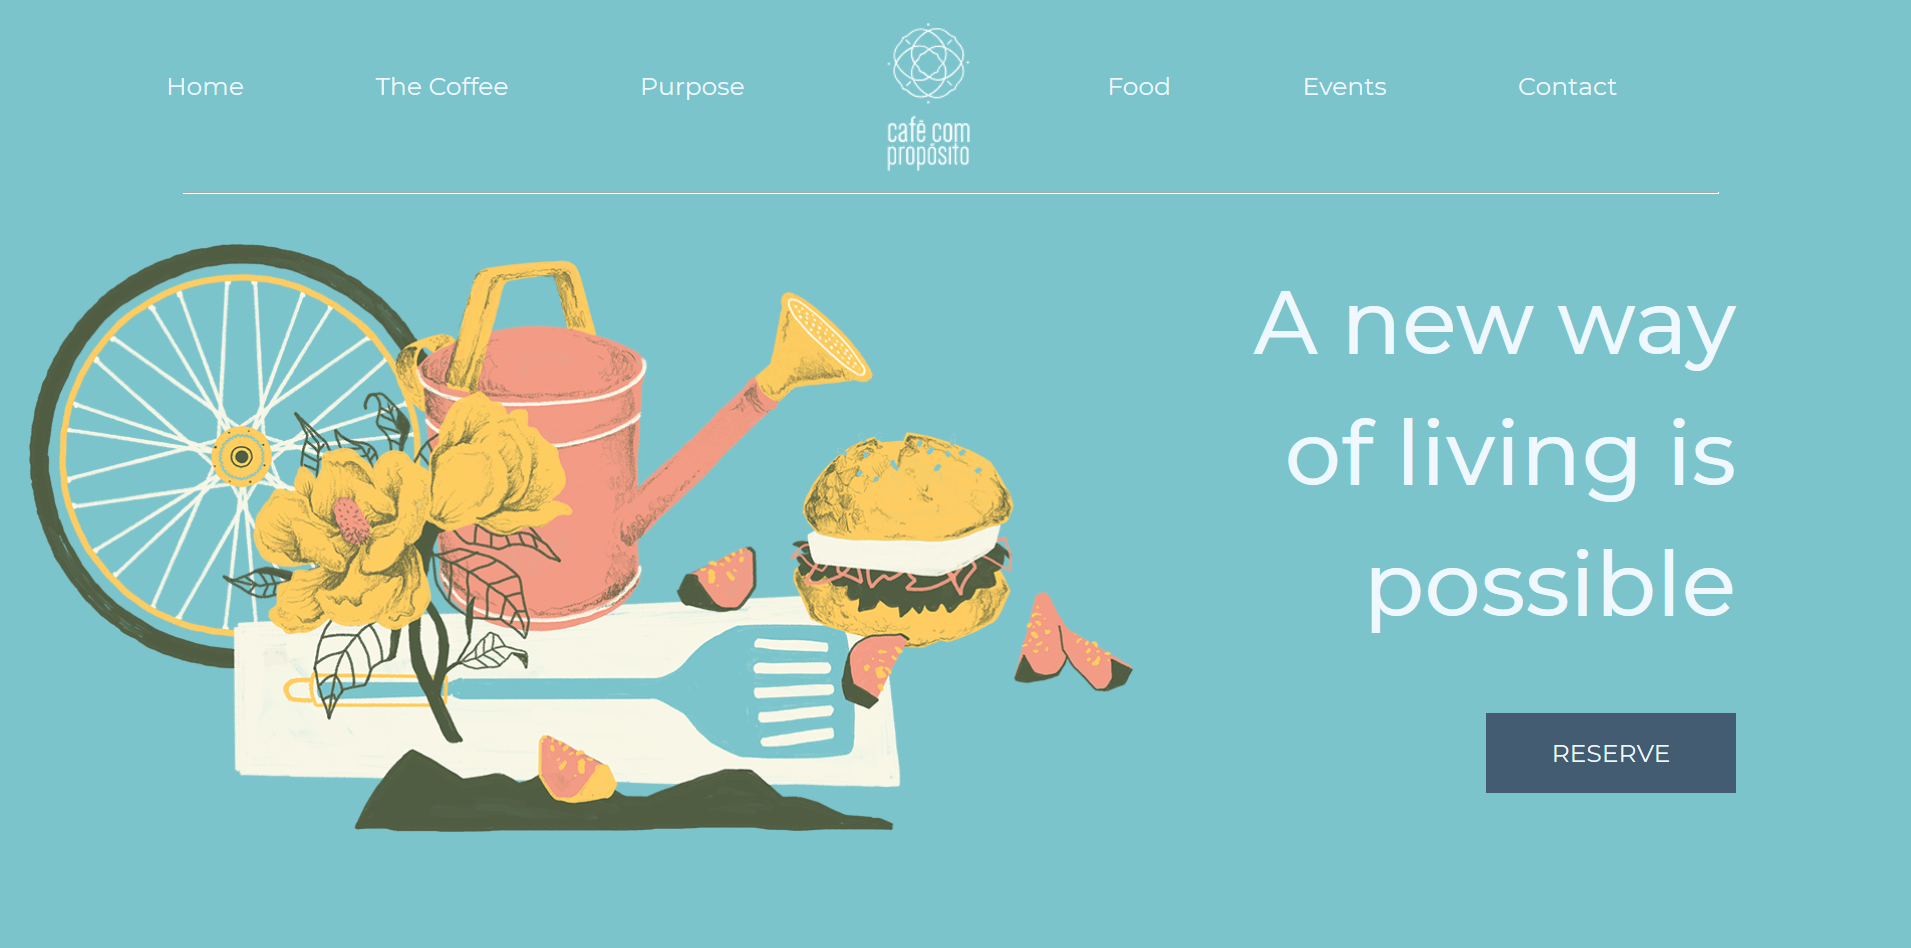
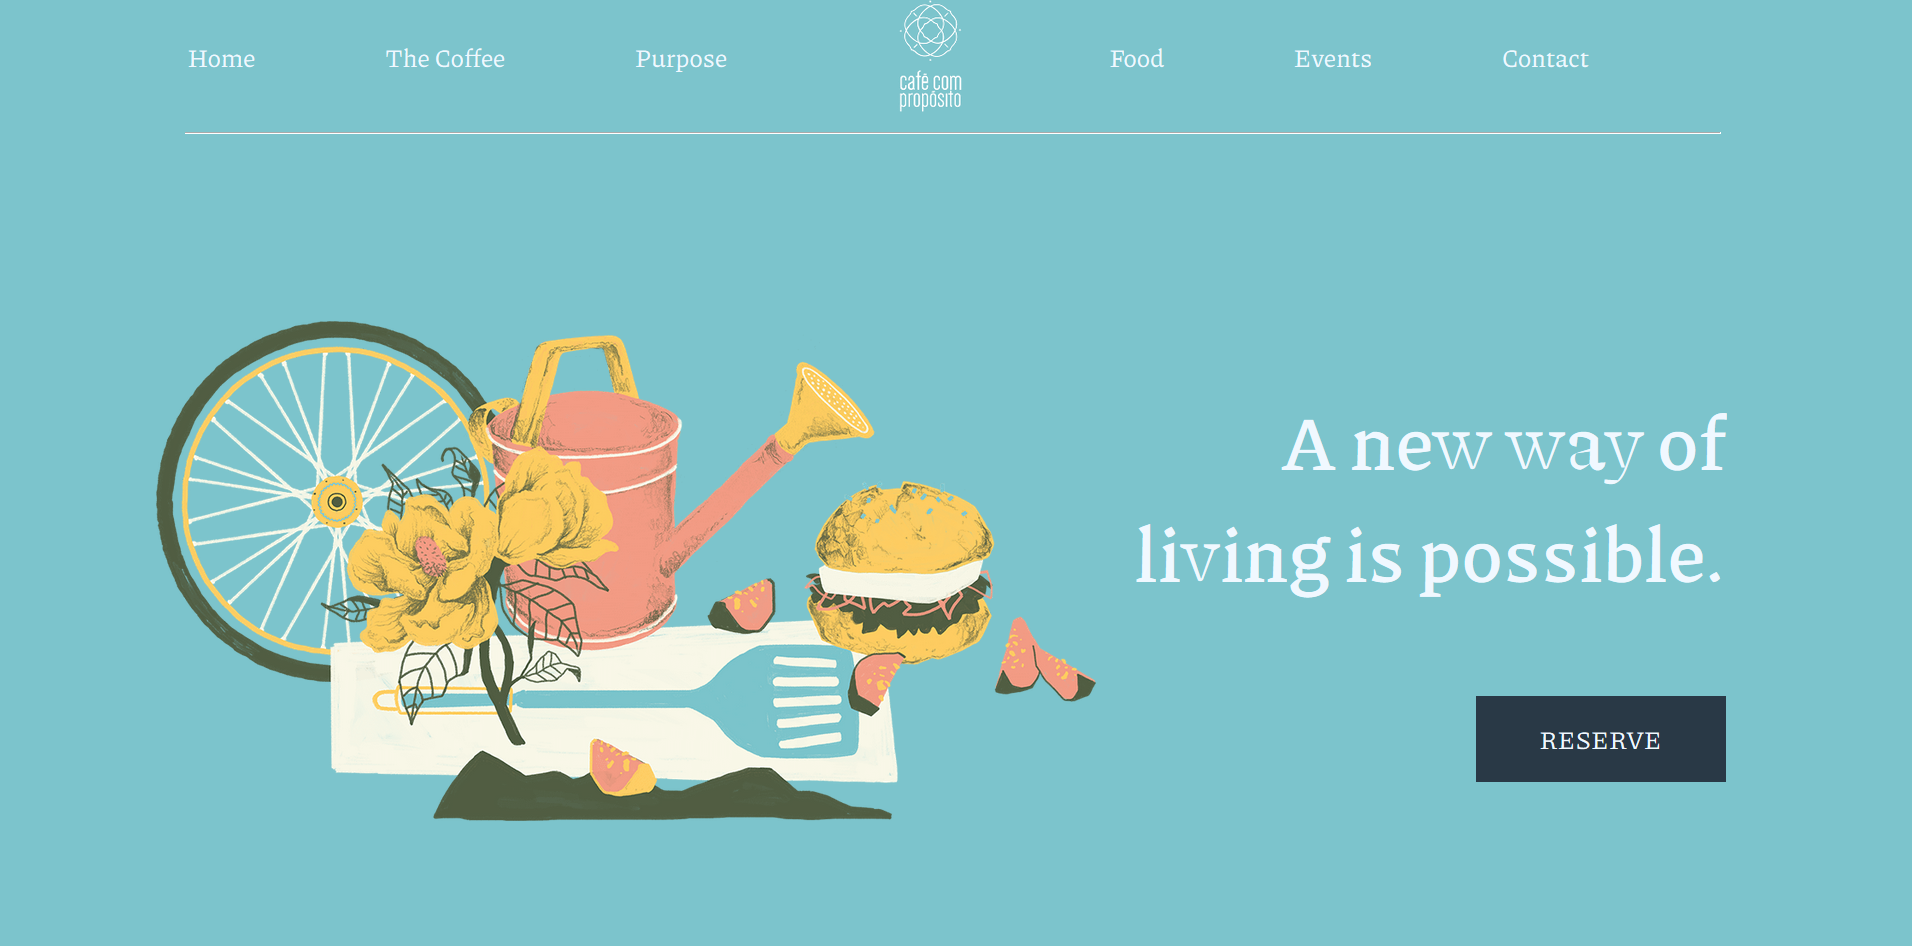
Updated Cafe

diff --git a/Cafe/index.html b/Cafe/index.html
@@ -5,35 +5,40 @@
 	<meta name="viewport" content="width=device-width, initial-scale=1.0">
 	<link rel="stylesheet" href="css/stylesheet.css">
 	<link rel="preconnect" href="https://fonts.gstatic.com">
-	<link href="https://fonts.googleapis.com/css2?family=Montserrat&family=Sacramento&display=swap" rel="stylesheet"> 
+	<link rel="preconnect" href="https://fonts.gstatic.com">
+	<link href="https://fonts.googleapis.com/css2?family=Piazzolla&display=swap" rel="stylesheet"> 
+	<link rel="shortcut icon" href="assets/icons/favicon.png" type="image/x-icon">
 	<title>Cafe</title>
 </head>
 <body>
 	<main>
 		<div class="container">
-			<div class="navbar">
-				<div class="left-nav-bar">
-					<ul>
-						<li>Home</li>
-						<li>The Coffee</li>
-						<li>Purpose</li>
-					</ul>
+			<div class="animation">
+				<div class="navbar">
+					<div class="left-nav-bar">
+						<ul>
+							<li>Home</li>
+							<li>The Coffee</li>
+							<li>Purpose</li>
+						</ul>
+					</div>
+					<div class="logo">
+						<img src="assets/icons/index-removebg-preview.png"  alt="">
+					</div>
+					<div class="right-nav-bar">
+						<ul>
+							<li>Food</li>
+							<li>Events</li>
+							<li>Contact</li>
+						</ul>
+					</div>
 				</div>
-				<div class="logo">
-					<img src="assets/icons/index-removebg-preview.png"  alt="">
-				</div>
-				<div class="right-nav-bar">
-					<ul>
-						<li>Food</li>
-						<li>Events</li>
-						<li>Contact</li>
-					</ul>
-				</div>
+				<hr>
+				
 			</div>
-			<hr>
 			<div class="bottom">
 				<div class="left">
-					<img src="assets/images/Home.png" alt="" height="470" class="home-img">
+					<img src="assets/images/Home.png" alt="" height="400" class="home-img">
 				</div>
 				<div class="right">
 					<div class="txt">

diff --git a/Cafe/css/stylesheet.css b/Cafe/css/stylesheet.css
@@ -2,7 +2,7 @@
 	margin: 0;
 	padding: 0;
 	box-sizing: border-box;
-	font-family: 'Montserrat', sans-serif;
+	font-family: 'Piazzolla', serif;
 }
 
 .container{
@@ -14,12 +14,12 @@
 
 .navbar{
 	width: 100%;
-	height: 130px;
+	height: 100px;
 	/* background-color: lightcoral; */
 	/* display: inline; */
 	display: flex;
-	position: absolute;
-	top : 10px;
+	/* visibility: hidden; */
+	
 }
 
 .left-nav-bar{
@@ -46,6 +46,9 @@
 li{
 	display: inline;
 	font-size: 20px;
+	/* background-color: lightcoral;
+	padding: 50px 0; */
+	
 }
 
 .logo>img{
@@ -58,11 +61,14 @@ li{
 
 .logo{
 	position: absolute;
-	left  : 600px;
-	top: 0;
+	left: 600px;
+	top: 0px;
 	flex: 0.25;
 	margin: 0;
-	bottom: 50px;
+	height: 100px;
+	display: flex;
+	/* background-color: lightcoral; */
+	align-items: center;
 }
 
 
@@ -93,35 +99,48 @@ hr{
 	color: white;
 	width: 80%;
 	margin: 10px auto;
+	/* visibility: hidden; */
 }
 
 .bottom{
-	margin-top: 50px;
+	margin-top: 120px;
 	display: flex;
 }
 
 .left{
-	padding: 30px;
+	padding: 30px 0px 30px 30px;
+	margin-left: 100px;
 }
 
 .right{
 	text-align: right;
-	margin: 40px 140px 0 0;
+	margin: 80px 150px 0 0;
+	/* visibility: hidden;
+	animation: right-animation 1s timing-function delay iteration-count direction fill-mode; */
 }
 
 .txt{
-	font-size: 35px;
+	font-size: 30px;
 	line-height: 1.5;
 }
 
 .button{
-	margin-top: 50px;
-	background-color: #435c71;
+	margin-top: 70px;
+	background-color: #293946;
 	float: right;
 	width: 200px;
 	padding: 20px;
+	transition-duration: 200ms;
 }
 
 .button>p{
 	text-align: center;
 }
+
+.button:hover{
+	/* transform: rotateY(180deg); */
+	color: #000;
+	border: 1px solid #293946;
+	background-color: #7cc4cc;
+}
+
